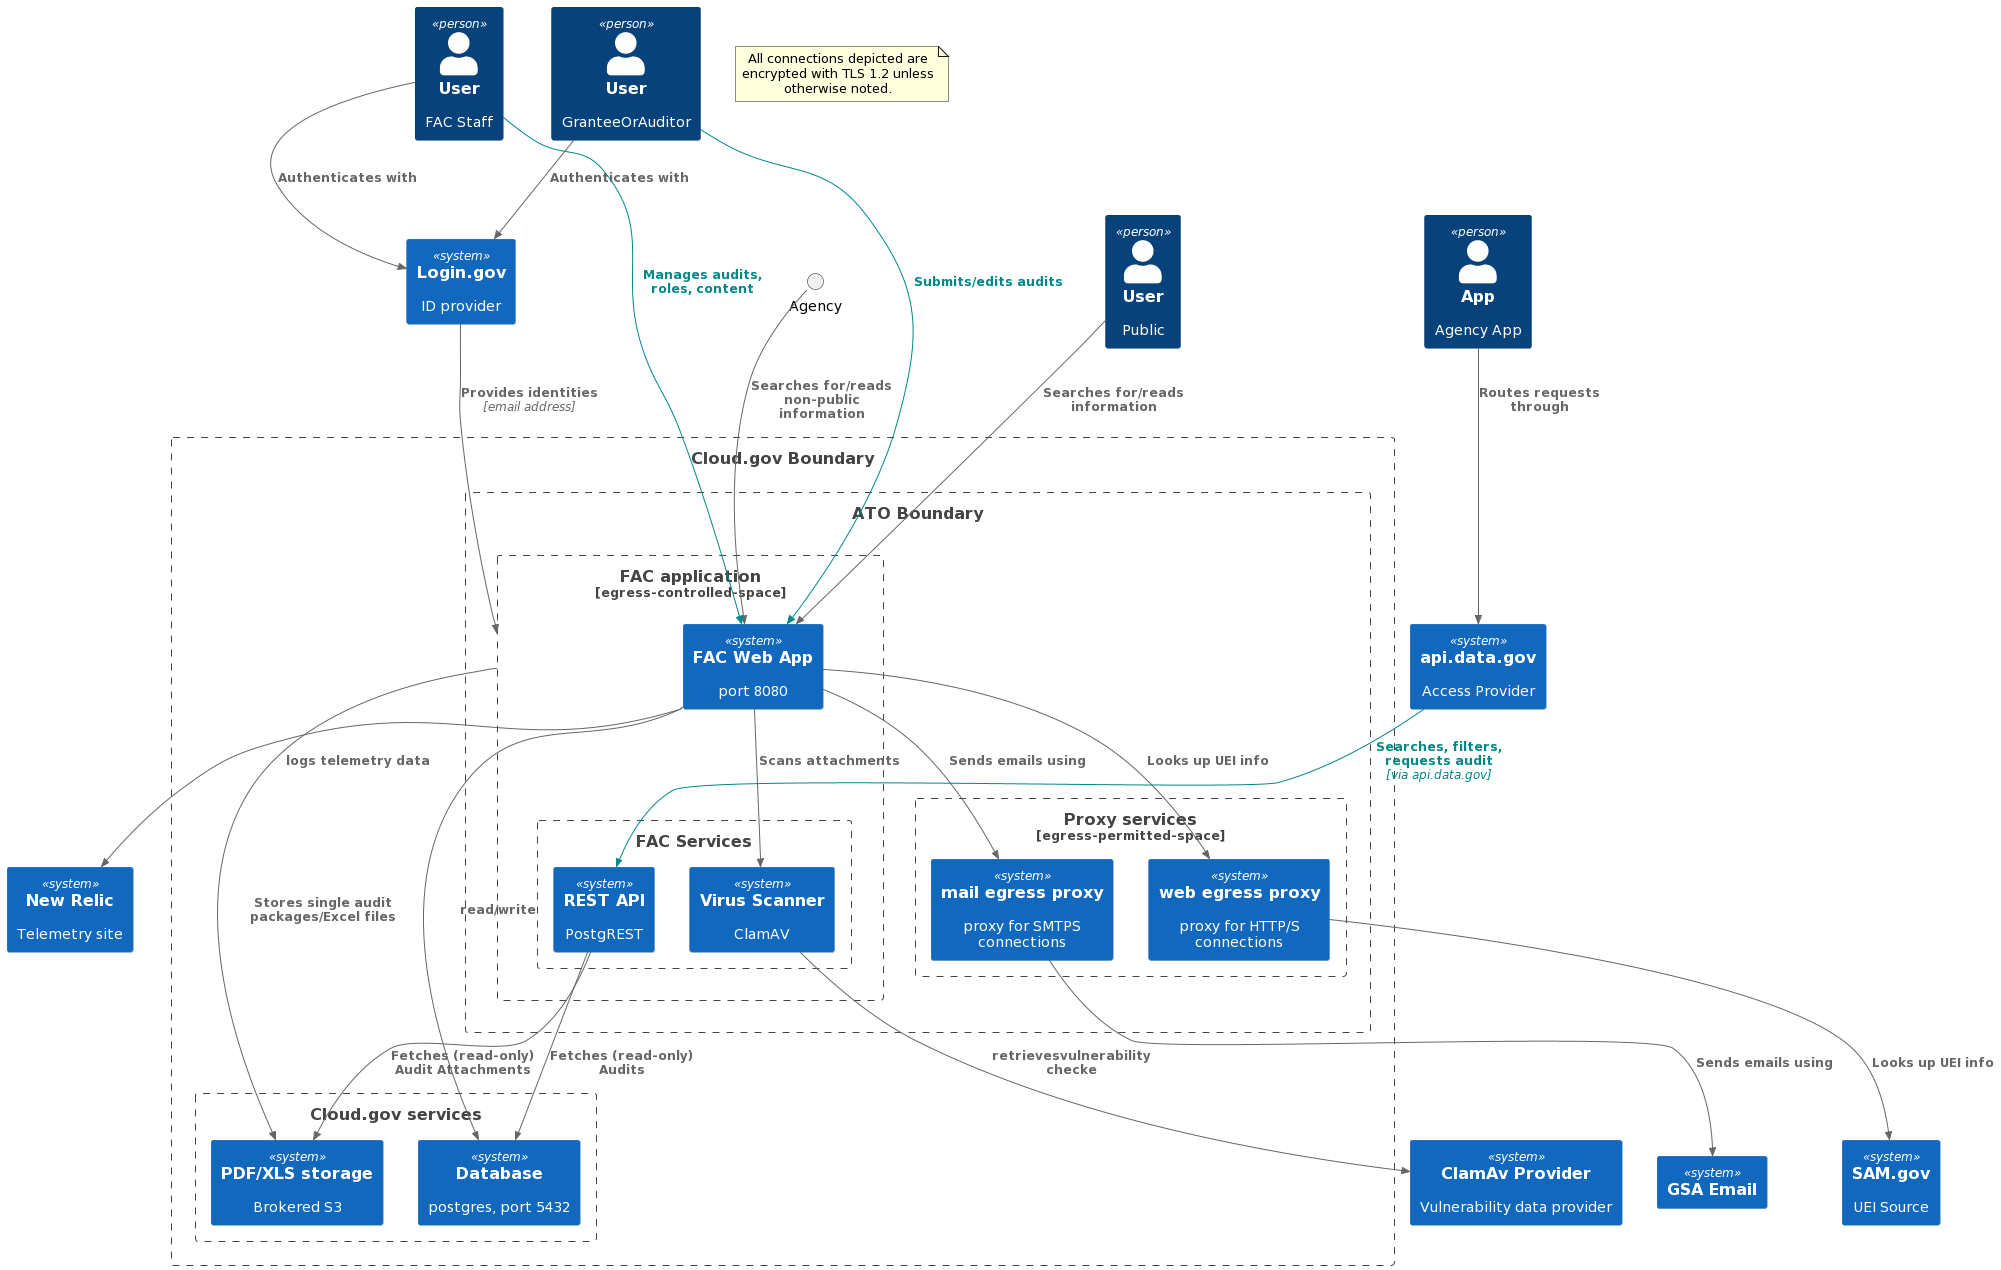
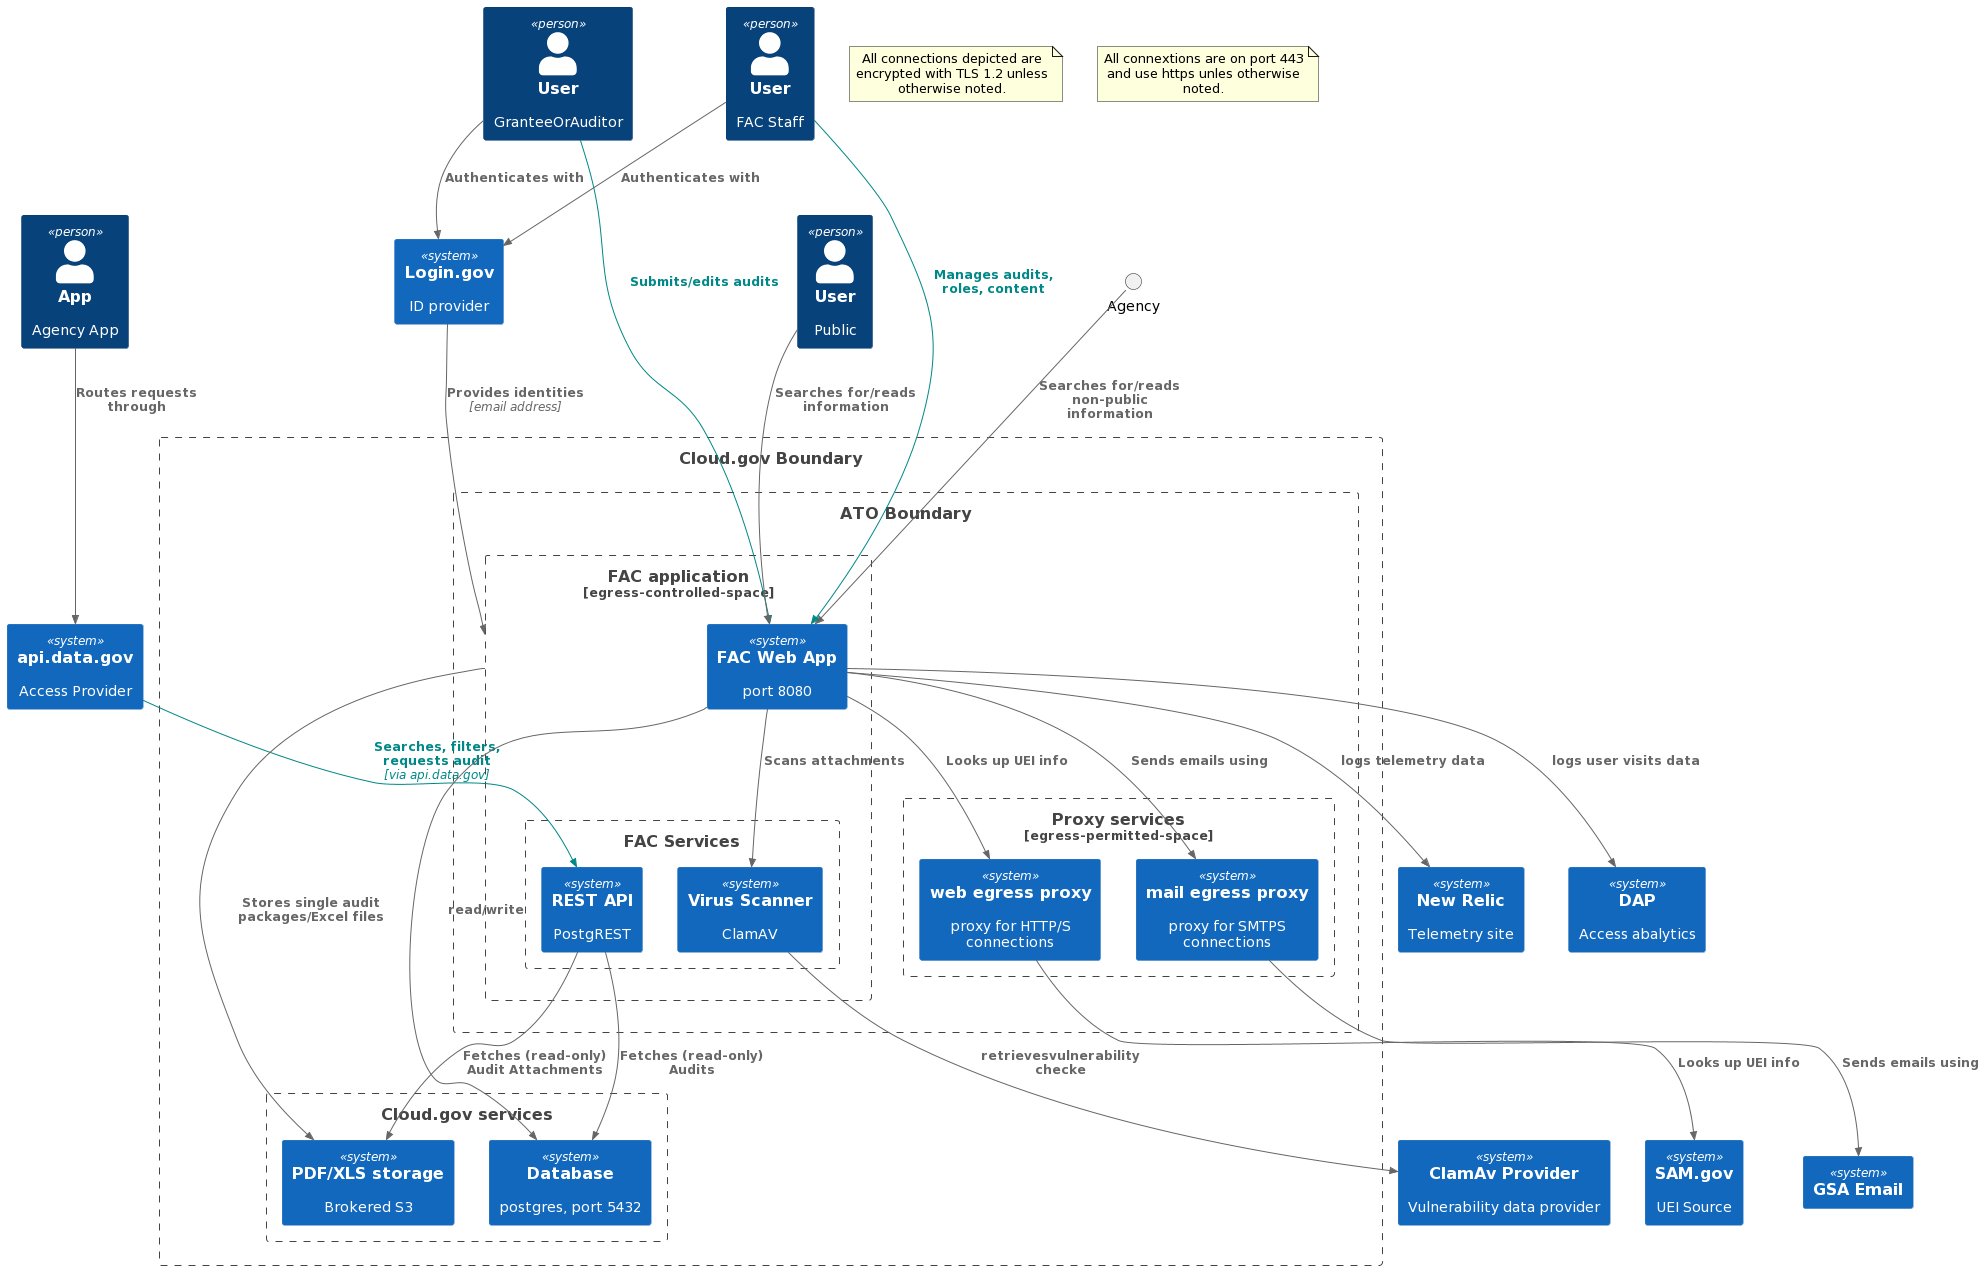
Add DAP

diff --git a/docs/architecture/diagrams/Application/fac_system_context_unified.md b/docs/architecture/diagrams/Application/fac_system_context_unified.md
@@ -10,7 +10,10 @@ Person(Staff, "User", "FAC Staff")
 Person(AgencyApp, "App", "Agency App")
 
 note as EncryptionNote
-All connections depicted are encrypted with TLS 1.2 unless otherwise noted.
+All connections depicted are encrypted with TLS 1.2 unless otherwise noted. 
+end note
+note as PortsNote
+All connextions are on port 443 and use https unles otherwise noted.
 end note
 
 
@@ -39,6 +42,7 @@ Boundary(cloudgov, "Cloud.gov Boundary") {
     System(samgov, "SAM.gov", "UEI Source")
     System(Email, "GSA Email")
     System(relic, "New Relic", "Telemetry site")
+    System(dap, "DAP", "Access abalytics")
     System(clamav, "ClamAv Provider", "Vulnerability data provider")
 
 
@@ -68,6 +72,7 @@ Rel(django, scan, "Scans attachments")
 Rel(django, db, "read/write")
 Rel(backend, s3, "Stores single audit packages/Excel files")
 Rel(django, relic, "logs telemetry data")
+Rel(django, dap, "logs user visits data")
 Rel(scan, clamav, "retrievesvulnerability checke")
 
 @enduml
